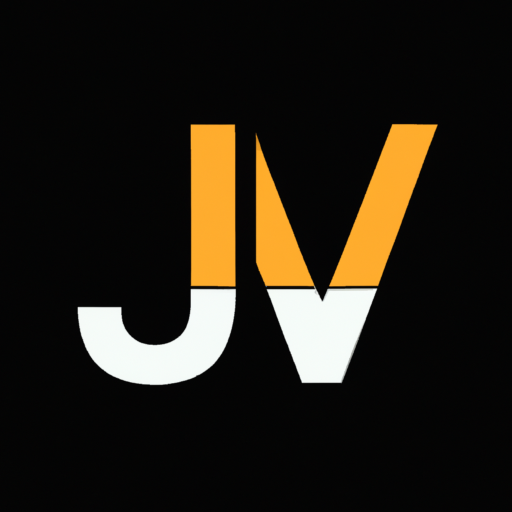
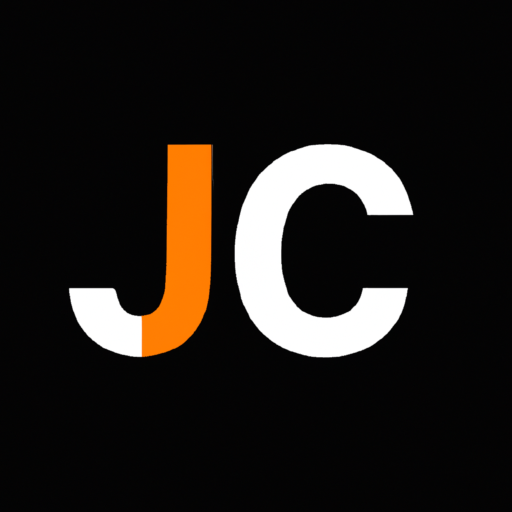
complete migration

Changed region(s): [[0.125, 0.2188, 0.875, 0.75], [0.5625, 0.6875, 0.6875, 0.75]]

diff --git a/src/pages/_document.tsx b/src/pages/_document.tsx
@@ -40,7 +40,7 @@ class MyDocument extends Document {
           <SeoTags
             description="Simple visualization tool for your JSON data. No forced structure, paste your JSON and view it instantly."
             title="JSON Crack - Crack your data into pieces"
-            image="https://jsoncrack.com/jsonvisio.png"
+            image="https://jsoncrack.com/jsoncrack.png"
           />
           <meta name="theme-color" content="#36393E" />
           <link rel="manifest" href="/manifest.json" />

diff --git a/src/containers/Home/index.tsx b/src/containers/Home/index.tsx
@@ -83,7 +83,7 @@ const Home: React.FC = () => {
           <Styles.StyledImage
             width="1200"
             height="863"
-            src="/jsonvisio-screenshot.webp"
+            src="/jsoncrack-screenshot.webp"
             alt="preview"
             loading="lazy"
           />

diff --git a/src/components/Sidebar/index.tsx b/src/components/Sidebar/index.tsx
@@ -124,7 +124,7 @@ export const Sidebar: React.FC = () => {
     const file = new Blob([getJson()], { type: "text/plain" });
 
     a.href = window.URL.createObjectURL(file);
-    a.download = "jsonvisio.json";
+    a.download = "jsoncrack.json";
     a.click();
   };
 

diff --git a/README.md b/README.md
@@ -1,6 +1,6 @@
 <center>
   <a href="https://jsoncrack.com">
-    <img width="1080" alt="jsonvisio" src="https://user-images.githubusercontent.com/47941171/182015412-f048058e-6e31-4cf6-bcfc-ab9ba3f6e005.png">
+    <img width="1080" alt="jsoncrack" src="https://user-images.githubusercontent.com/47941171/182015412-f048058e-6e31-4cf6-bcfc-ab9ba3f6e005.png">
   </a>
 </center>
 
@@ -25,7 +25,7 @@
   </p>
 
   <p align="center">
-      <img width="800" src="/public/jsonvisio-screenshot.webp" alt="preview 1" />
+      <img width="800" src="/public/jsoncrack-screenshot.webp" alt="preview 1" />
   </p>
 
 # JSON Crack (jsoncrack.com)
@@ -59,8 +59,8 @@ You can use the web version at [jsoncrack.com](https://jsoncrack.com) or also ru
 A Docker file is provided in the root of the repository.
 If you want to run JSON Crack locally:
 
-* Build Docker image with `docker build -t jsonvisio .`
-* Run locally with `docker run -p 8888:8080 jsonvisio`
+* Build Docker image with `docker build -t jsoncrack .`
+* Run locally with `docker run -p 8888:8080 jsoncrack`
 * Go to [http://localhost:8888]
 ```
 
